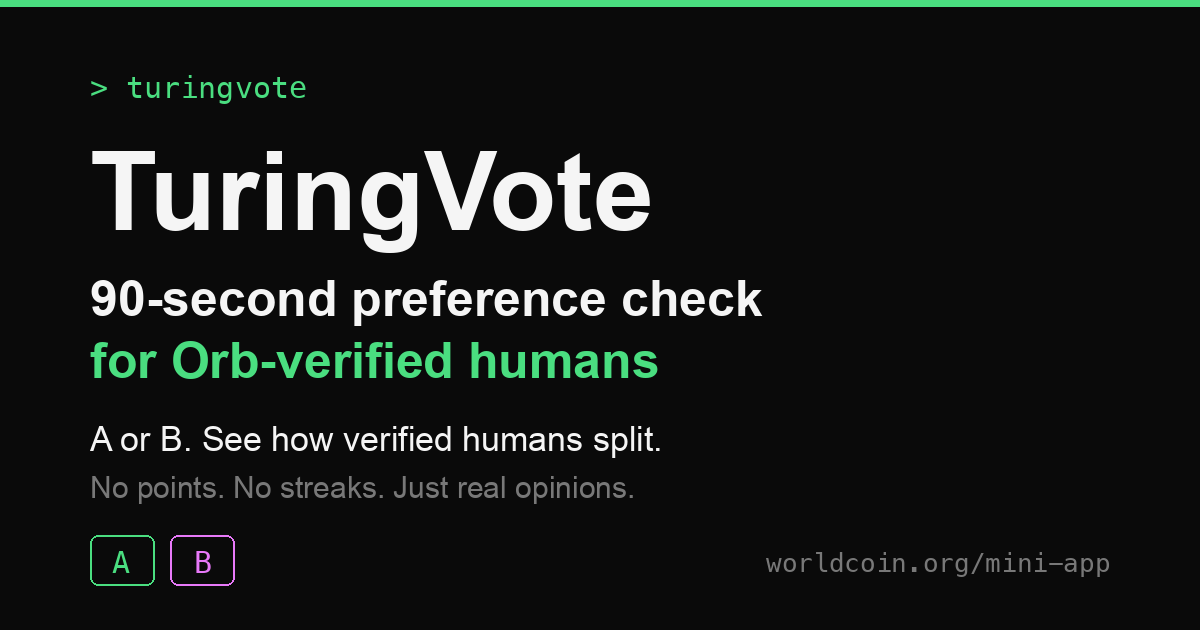
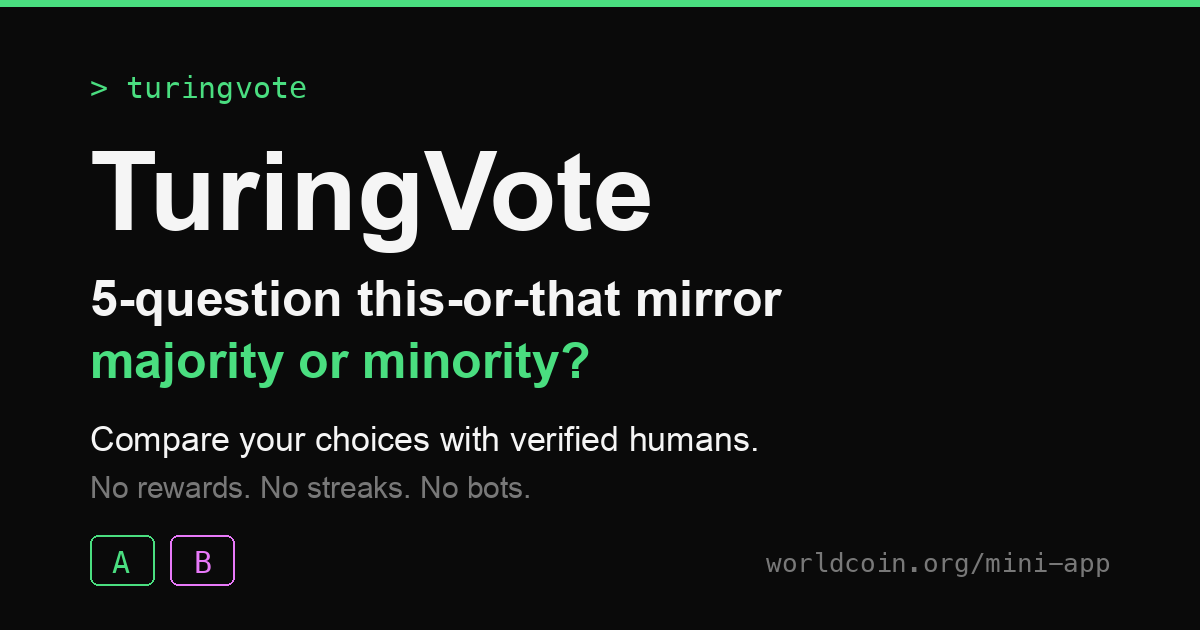
feat(acquisition): improve share and discovery surfaces

diff --git a/src/app/layout.tsx b/src/app/layout.tsx
@@ -12,9 +12,31 @@ const geistMono = Geist_Mono({ subsets: ["latin"], variable: "--font-mono" });
 
 const BASE_URL = "https://turingvote.vercel.app";
 
-const TITLE = "TuringVote — Verified-human only 2-choice polls";
+const TITLE = "TuringVote — 5-question mirror for verified humans";
 const DESCRIPTION =
-  "Vote on neutral 2-choice questions. Only Verified Humans via World ID can participate. See how the verified crowd answers.";
+  "Answer 5 quick this-or-that questions and see whether your choices land with the majority or minority among verified humans in World App.";
+
+const STRUCTURED_DATA = {
+  "@context": "https://schema.org",
+  "@type": "WebApplication",
+  name: "TuringVote",
+  url: BASE_URL,
+  applicationCategory: "LifestyleApplication",
+  operatingSystem: "World App",
+  description: DESCRIPTION,
+  offers: {
+    "@type": "Offer",
+    price: "0",
+    priceCurrency: "USD",
+  },
+  featureList: [
+    "5 quick this-or-that questions",
+    "majority or minority mirror",
+    "verified-human preference splits",
+    "World ID / World App sign-in",
+    "no rewards, streaks, betting, or leaderboard",
+  ],
+};
 
 export const metadata: Metadata = {
   metadataBase: new URL(BASE_URL),
@@ -23,8 +45,15 @@ export const metadata: Metadata = {
     template: "%s | TuringVote",
   },
   description: DESCRIPTION,
+  alternates: {
+    canonical: BASE_URL,
+  },
   keywords: [
     "TuringVote",
+    "5-question mirror",
+    "this or that questions",
+    "would you rather",
+    "majority or minority",
     "World ID",
     "World App",
     "Mini App",
@@ -52,7 +81,7 @@ export const metadata: Metadata = {
         url: "/og.png",
         width: 1200,
         height: 630,
-        alt: "TuringVote — 90-second preference check for Orb-verified humans. A or B. No points, no streaks.",
+        alt: "TuringVote — answer 5 this-or-that questions and see your majority or minority mirror among verified humans.",
       },
     ],
   },
@@ -93,6 +122,10 @@ export default function RootLayout({
         {/* Preconnect to Supabase to shave ~100-300ms off the first /api call */}
         <link rel="preconnect" href="https://wgszbxgsxekwdmssnvvd.supabase.co" />
         <link rel="dns-prefetch" href="https://wgszbxgsxekwdmssnvvd.supabase.co" />
+        <script
+          type="application/ld+json"
+          dangerouslySetInnerHTML={{ __html: JSON.stringify(STRUCTURED_DATA) }}
+        />
       </head>
       <body>
         <MiniKitWrapper>

diff --git a/src/app/page.tsx b/src/app/page.tsx
@@ -11,6 +11,7 @@ import { AppProvider, useApp } from "@/components/providers/AppProvider";
 import { I18nProvider, useI18n, type Locale } from "@/i18n";
 import { MiniKit } from "@worldcoin/minikit-js";
 import type { UserProfile } from "@/lib/types";
+import { APP_DEEP_LINK } from "@/lib/constants";
 
 const LANGUAGES: { code: Locale; label: string; shortLabel: string }[] = [
   { code: "en", label: "English", shortLabel: "EN" },
@@ -320,6 +321,33 @@ function WalletAuthScreen({
             <ChevronRight className="h-4 w-4 transition-transform group-hover:translate-x-0.5" />
           )}
         </button>
+
+        <div className="grid grid-cols-2 gap-2">
+          <a
+            href={APP_DEEP_LINK}
+            className="font-mono-feature min-h-10 rounded-md border px-2 py-2 text-[11px] leading-tight text-center font-bold uppercase tracking-widest flex items-center justify-center gap-1.5 transition active:scale-[0.98]"
+            style={{
+              borderColor: "var(--border)",
+              color: "var(--foreground)",
+              backgroundColor: "color-mix(in oklch, var(--card) 88%, transparent)",
+            }}
+          >
+            <span>{t("verify.openWorldApp")}</span>
+            <ChevronRight className="h-3.5 w-3.5" aria-hidden />
+          </a>
+          <Link
+            href="/?preview=1"
+            className="font-mono-feature min-h-10 rounded-md border px-2 py-2 text-[11px] leading-tight text-center font-bold uppercase tracking-widest flex items-center justify-center gap-1.5 transition active:scale-[0.98]"
+            style={{
+              borderColor: "var(--border)",
+              color: "var(--muted-foreground)",
+              backgroundColor: "color-mix(in oklch, var(--card) 80%, transparent)",
+            }}
+          >
+            <span>{t("verify.preview")}</span>
+            <ChevronRight className="h-3.5 w-3.5" aria-hidden />
+          </Link>
+        </div>
 
         {error && (
           <p

diff --git a/src/lib/share.ts b/src/lib/share.ts
@@ -1,5 +1,6 @@
 import { MiniKit, Permission } from "@worldcoin/minikit-js";
 import { track } from "./track";
+import { APP_DEEP_LINK } from "./constants";
 
 /**
  * World App deep link for TuringVote.
@@ -9,11 +10,6 @@ import { track } from "./track";
  * 2026-04-19 — share link previously pointed to Daily Predict's app_id, which
  * caused JP region block on the share landing page).
  */
-const TV_APP_ID =
-  process.env.NEXT_PUBLIC_WLD_APP_ID ??
-  "app_30c7b1a4127cca75b14c1abb6a024d46";
-export const APP_DEEP_LINK = `https://worldcoin.org/mini-app?app_id=${TV_APP_ID}`;
-
 const SHARE_TIMEOUT_MS = 8000;
 
 type ShareSurface = "minikit" | "web_share" | "clipboard";
@@ -211,8 +207,8 @@ export function buildResultShareText(
   correctPercent: number
 ): string {
   return isCorrect
-    ? `\uD83E\uDDE0 I was in the ${correctPercent}% of Orb-verified humans who got this right on TuringVote.\n\n"${questionEn}"\n\nCompare your answer \u2192`
-    : `\uD83E\uDDE0 ${correctPercent}% of Orb-verified humans got this right on TuringVote. I wasn't.\n\n"${questionEn}"\n\nWhere do you land? \u2192`;
+    ? `\uD83E\uDDE0 I landed with the ${correctPercent}% of verified humans on TuringVote.\n\n"${questionEn}"\n\nTry the 5-question mirror \u2192`
+    : `\uD83E\uDDE0 Only ${correctPercent}% of verified humans chose like this on TuringVote.\n\n"${questionEn}"\n\nMajority or minority? Try the 5-question mirror \u2192`;
 }
 
 /**
@@ -225,7 +221,7 @@ export function buildPredictionShareText(
   chosenLabel: string,
   agreePercent: number
 ): string {
-  return `\uD83E\uDDE0 I voted "${chosenLabel}" on TuringVote. ${agreePercent}% of Orb-verified humans agree.\n\n"${questionEn}"\n\nWhere do you land? \u2192`;
+  return `\uD83E\uDDE0 I chose "${chosenLabel}" on TuringVote. ${agreePercent}% of verified humans chose the same side.\n\n"${questionEn}"\n\nWhere do you land in 5 quick choices? \u2192`;
 }
 
 /**

diff --git a/src/components/screens/SummaryDialog.tsx b/src/components/screens/SummaryDialog.tsx
@@ -148,8 +148,8 @@ export function SummaryDialog() {
       profile === "majority" ? "🟦" : profile === "minority" ? "🟧" : "⚪";
     const text =
       locale === "ja"
-        ? `🧠 ${profileEmoji} TuringVote で私は${profileLabel}でした。あなたはどう？ →`
-        : `🧠 ${profileEmoji} I'm ${profileLabel} on TuringVote. Compare your answer →`;
+        ? `🧠 ${profileEmoji} TuringVoteの5問ミラーで、私は${profileLabel}でした。\n\n5つの二択で、多数派か少数派か見てみて →`
+        : `🧠 ${profileEmoji} My 5-question TuringVote mirror: ${profileLabel}.\n\nTake 5 this-or-that questions and see if you land majority or minority →`;
     await shareText(text);
   };
 
@@ -451,6 +451,12 @@ export function SummaryDialog() {
             <RotateCcw className="h-3.5 w-3.5 mr-2" />
             {t("summary.playAgain")}
           </Button>
+          <p
+            className="text-[12px] leading-relaxed text-center px-1"
+            style={{ color: "var(--muted-foreground)" }}
+          >
+            {t("summary.sharePrompt")}
+          </p>
           <Button
             onClick={handleShare}
             variant="outline"

diff --git a/src/app/sitemap.ts b/src/app/sitemap.ts
@@ -1,0 +1,33 @@
+import type { MetadataRoute } from "next";
+
+const BASE_URL = "https://turingvote.vercel.app";
+
+export default function sitemap(): MetadataRoute.Sitemap {
+  const now = new Date();
+  return [
+    {
+      url: BASE_URL,
+      lastModified: now,
+      changeFrequency: "weekly",
+      priority: 1,
+    },
+    {
+      url: `${BASE_URL}/about`,
+      lastModified: now,
+      changeFrequency: "monthly",
+      priority: 0.8,
+    },
+    {
+      url: `${BASE_URL}/privacy`,
+      lastModified: now,
+      changeFrequency: "yearly",
+      priority: 0.4,
+    },
+    {
+      url: `${BASE_URL}/terms`,
+      lastModified: now,
+      changeFrequency: "yearly",
+      priority: 0.4,
+    },
+  ];
+}

diff --git a/src/app/robots.ts b/src/app/robots.ts
@@ -1,0 +1,13 @@
+import type { MetadataRoute } from "next";
+
+const BASE_URL = "https://turingvote.vercel.app";
+
+export default function robots(): MetadataRoute.Robots {
+  return {
+    rules: {
+      userAgent: "*",
+      allow: "/",
+    },
+    sitemap: `${BASE_URL}/sitemap.xml`,
+  };
+}

diff --git a/scripts/gen_og_image.py b/scripts/gen_og_image.py
@@ -61,19 +61,19 @@ def main() -> None:
 
     # Value prop line 1 (white)
     f_sub = font(SANS_BOLD, 50)
-    d.text((MARGIN, 270), "90-second preference check", font=f_sub, fill=FG)
+    d.text((MARGIN, 270), "5-question this-or-that mirror", font=f_sub, fill=FG)
 
     # Value prop line 2 (green accent) — verifiable, no numbers
     f_sub2 = font(SANS_BOLD, 50)
-    d.text((MARGIN, 332), "for Orb-verified humans", font=f_sub2, fill=GREEN)
+    d.text((MARGIN, 332), "majority or minority?", font=f_sub2, fill=GREEN)
 
     # Supporting line (off-white) — what you do
     f_body = font(SANS, 34)
-    d.text((MARGIN, 420), "A or B. See how verified humans split.", font=f_body, fill=FG)
+    d.text((MARGIN, 420), "Compare your choices with verified humans.", font=f_body, fill=FG)
 
     # Differentiator (dim) — honest + Worldcoin-aligned, no fake engagement
     f_diff = font(SANS, 30)
-    d.text((MARGIN, 470), "No points. No streaks. Just real opinions.", font=f_diff, fill=DIM)
+    d.text((MARGIN, 470), "No rewards. No streaks. No bots.", font=f_diff, fill=DIM)
 
     # A / B chips (bottom-left) — green A, magenta B, mirrors the vote UI
     f_chip = font(MONO, 30)
